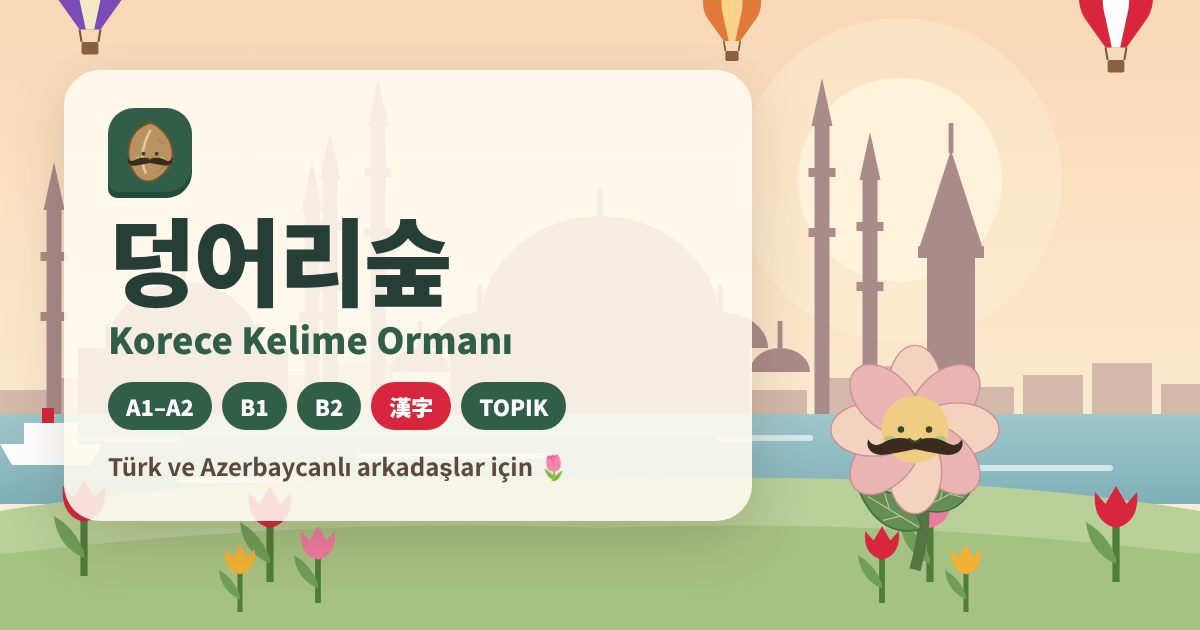
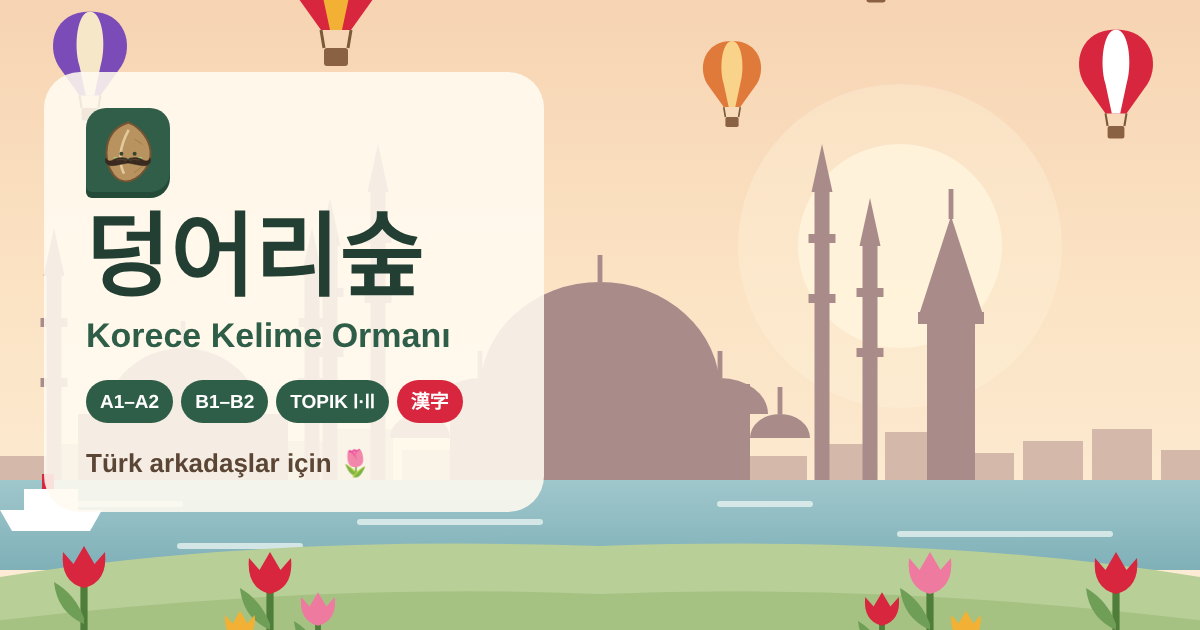
링크 미리보기에서 아제르바이잔 문구 제거, 오프라인 캐시가 아제르바이잔 버전을 지우지 않게 수정
Claude-Session: https://claude.ai/code/session_012kSW7ZyPPrCC7F2xd3xm5g

diff --git a/index.html b/index.html
@@ -16,7 +16,7 @@ setTimeout(function(){d.style.visibility=''},2500)})();</script>
 <meta property="og:description" content="Korece kelimeyi gör, Türkçe anlamını seç. Eş kelimeler, kartlar, bitki arkadaşını büyüt!">
 <meta property="og:type" content="website">
 <meta property="og:url" content="https://jindam1799.github.io/korece_Turkce_TOPIK/">
-<meta property="og:image" content="https://jindam1799.github.io/korece_Turkce_TOPIK/og-image.png?v=3">
+<meta property="og:image" content="https://jindam1799.github.io/korece_Turkce_TOPIK/og-image.png?v=4">
 <meta property="og:image:width" content="1200">
 <meta property="og:image:height" content="630">
 <meta property="og:image:alt" content="덩어리숲 · Korece Kelime Ormanı">
@@ -25,7 +25,7 @@ setTimeout(function(){d.style.visibility=''},2500)})();</script>
 <meta name="twitter:card" content="summary_large_image">
 <meta name="twitter:title" content="덩어리숲 · Korece Kelime Ormanı">
 <meta name="twitter:description" content="Korece kelimeyi gör, Türkçe anlamını seç. A1'den B2'ye, Hanca, eş kelimeler ve bitki arkadaşın!">
-<meta name="twitter:image" content="https://jindam1799.github.io/korece_Turkce_TOPIK/og-image.png?v=3">
+<meta name="twitter:image" content="https://jindam1799.github.io/korece_Turkce_TOPIK/og-image.png?v=4">
 <meta name="theme-color" content="#315e48">
 <meta name="author" content="Wonju (원주)">
 <link rel="manifest" href="manifest.webmanifest">
@@ -502,16 +502,16 @@ button:focus-visible,select:focus-visible,input:focus-visible{outline:3px solid 
  </div></div>
 </div>
 
-<script src="config.js?v=54"></script>
-<script src="char.js?v=54"></script>
-<script src="data/a12.js?v=54"></script>
-<script src="data/b11.js?v=54"></script>
-<script src="data/b12.js?v=54"></script>
-<script src="data/b21.js?v=54"></script>
-<script src="data/b22.js?v=54"></script>
-<script src="data/topik1.js?v=54"></script>
-<script src="data/topik2.js?v=54"></script>
-<script src="data/hanja.js?v=54"></script>
-<script src="app.js?v=54"></script>
+<script src="config.js?v=55"></script>
+<script src="char.js?v=55"></script>
+<script src="data/a12.js?v=55"></script>
+<script src="data/b11.js?v=55"></script>
+<script src="data/b12.js?v=55"></script>
+<script src="data/b21.js?v=55"></script>
+<script src="data/b22.js?v=55"></script>
+<script src="data/topik1.js?v=55"></script>
+<script src="data/topik2.js?v=55"></script>
+<script src="data/hanja.js?v=55"></script>
+<script src="app.js?v=55"></script>
 </body>
 </html>

diff --git a/sw.js b/sw.js
@@ -1,9 +1,9 @@
 /* 덩어리숲 · çevrimdışı önbellek. Yeni sürüm yayınlarken VERSION'ı değiştirin. */
-const VERSION='deongeori-v54';
+const VERSION='deongeori-v55';
 const FILES=['./','index.html','app.js','char.js','config.js','manifest.webmanifest','icons/icon-192.png','icons/icon-512.png','og-image.png',
  'data/a12.js','data/b11.js','data/b12.js','data/b21.js','data/b22.js','data/hanja.js','data/topik2.js','data/topik1.js'];
 self.addEventListener('install',e=>{e.waitUntil(caches.open(VERSION).then(c=>c.addAll(FILES)).then(()=>self.skipWaiting()))});
-self.addEventListener('activate',e=>{e.waitUntil(caches.keys().then(ks=>Promise.all(ks.filter(k=>k!==VERSION).map(k=>caches.delete(k)))).then(()=>self.clients.claim()))});
+self.addEventListener('activate',e=>{e.waitUntil(caches.keys().then(ks=>Promise.all(ks.filter(k=>k.startsWith('deongeori-v')&&k!==VERSION).map(k=>caches.delete(k)))).then(()=>self.clients.claim()))});
 // Önce ağ, olmazsa önbellek: güncellemeler hemen görünür, internet yokken de çalışır.
 self.addEventListener('fetch',e=>{
  if(e.request.method!=='GET'||new URL(e.request.url).origin!==location.origin)return;
